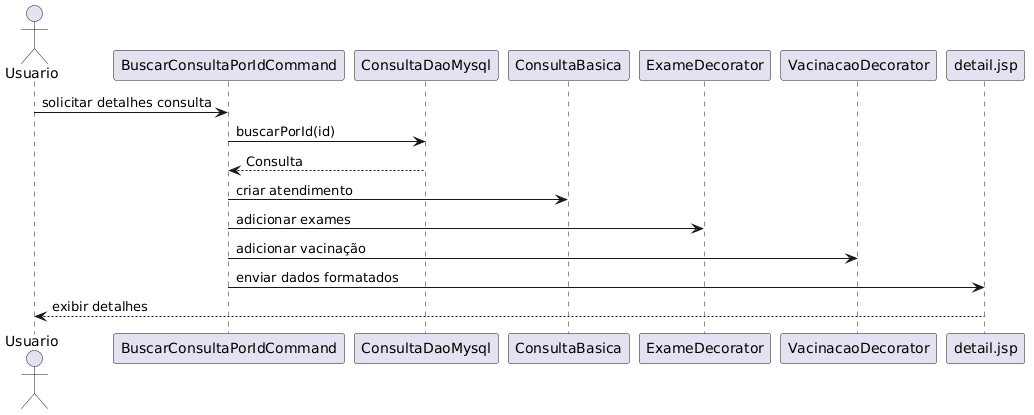
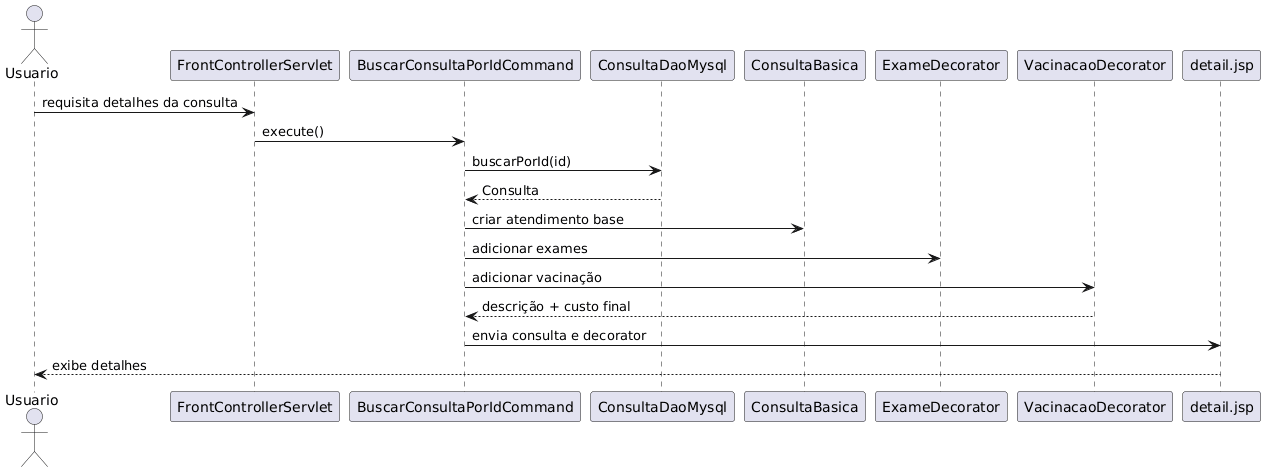
Melhora da API REST e atualização de docs e README

diff --git a/src/main/java/clinicavet/api/PetApiServlet.java b/src/main/java/clinicavet/api/PetApiServlet.java
@@ -10,6 +10,7 @@ import jakarta.servlet.ServletException;
 
 import java.io.IOException;
 import java.io.PrintWriter;
+import java.time.LocalDateTime;
 import java.util.List;
 
 @WebServlet("/api/pets")
@@ -31,9 +32,7 @@ public class PetApiServlet extends HttpServlet {
 
             String idParam = req.getParameter("id");
 
-            // =========================
             // BUSCAR PET POR ID
-            // =========================
             if (idParam != null) {
 
                 Long id = Long.parseLong(idParam);
@@ -44,93 +43,97 @@ public class PetApiServlet extends HttpServlet {
 
                     resp.setStatus(HttpServletResponse.SC_NOT_FOUND);
 
-                    out.print("{\"erro\":\"Pet nao encontrado\"}");
+                    out.print("""
+                        {
+                          "status":"error",
+                          "message":"Pet nao encontrado"
+                        }
+                    """);
 
                     return;
                 }
 
-                String json =
-                        "{"
-                        + "\"id\":" + pet.getId() + ","
-                        + "\"nome\":\"" + pet.getNome() + "\","
-                        + "\"especie\":\"" + pet.getEspecie() + "\","
-                        + "\"raca\":\"" + pet.getRaca() + "\","
-                        + "\"sexo\":\"" + pet.getSexo() + "\","
-                        + "\"porte\":\"" + pet.getPorte() + "\","
-                        + "\"statusVacinal\":\"" + pet.getStatusVacinal() + "\","
-                        + "\"castrado\":" + pet.isCastrado()
-                        + "}";
+                String json = """
+                    {
+                      "status":"success",
+                      "timestamp":"%s",
+                      "data":{
+                        "id":%d,
+                        "nome":"%s",
+                        "especie":"%s",
+                        "raca":"%s"
+                      }
+                    }
+                    """.formatted(
+                        LocalDateTime.now(),
+                        pet.getId(),
+                        pet.getNome(),
+                        pet.getEspecie(),
+                        pet.getRaca()
+                );
 
                 out.print(json);
+
             }
 
-            // =========================
             // LISTAR TODOS
-            // =========================
             else {
 
                 List<Pet> pets = petDao.listarTodos();
 
-                StringBuilder json = new StringBuilder();
+                StringBuilder petsJson = new StringBuilder();
 
-                json.append("[");
+                petsJson.append("[");
 
                 for (int i = 0; i < pets.size(); i++) {
 
                     Pet pet = pets.get(i);
 
-                    json.append("{");
-
-                    json.append("\"id\":")
-                            .append(pet.getId())
-                            .append(",");
-
-                    json.append("\"nome\":\"")
-                            .append(pet.getNome())
-                            .append("\",");
-
-                    json.append("\"especie\":\"")
-                            .append(pet.getEspecie())
-                            .append("\",");
-
-                    json.append("\"raca\":\"")
-                            .append(pet.getRaca())
-                            .append("\",");
-
-                    json.append("\"sexo\":\"")
-                            .append(pet.getSexo())
-                            .append("\",");
-
-                    json.append("\"porte\":\"")
-                            .append(pet.getPorte())
-                            .append("\",");
-
-                    json.append("\"statusVacinal\":\"")
-                            .append(pet.getStatusVacinal())
-                            .append("\"");
-
-                    json.append("}");
+                    petsJson.append("""
+                        {
+                          "id":%d,
+                          "nome":"%s",
+                          "especie":"%s"
+                        }
+                        """.formatted(
+                            pet.getId(),
+                            pet.getNome(),
+                            pet.getEspecie()
+                    ));
 
                     if (i < pets.size() - 1) {
-
-                        json.append(",");
+                        petsJson.append(",");
                     }
                 }
 
-                json.append("]");
+                petsJson.append("]");
 
-                out.print(json.toString());
+                String jsonFinal = """
+                    {
+                      "status":"success",
+                      "timestamp":"%s",
+                      "total":%d,
+                      "data":%s
+                    }
+                    """.formatted(
+                        LocalDateTime.now(),
+                        pets.size(),
+                        petsJson
+                );
+
+                out.print(jsonFinal);
             }
 
         } catch (Exception e) {
 
-            resp.setStatus(
-                    HttpServletResponse.SC_INTERNAL_SERVER_ERROR
-            );
+            resp.setStatus(HttpServletResponse.SC_INTERNAL_SERVER_ERROR);
 
-            out.print(
-                    "{\"erro\":\"Erro interno da API\"}"
-            );
+            out.print("""
+                {
+                  "status":"error",
+                  "message":"Erro interno da API"
+                }
+            """);
         }
     }
 }

diff --git a/README.md b/README.md
@@ -92,13 +92,29 @@ Endpoint disponível:
 /api/pets
 ```
 
-Permite:
-- listar pets
-- buscar pets por ID
-- retorno em JSON
+Funcionalidades:
+- listar pets cadastrados
+- buscar pet por ID
+- resposta em JSON
 - tratamento de erros HTTP
+- retorno com status e timestamp
 
----
+Exemplo de resposta:
+
+```json
+{
+  "status":"success",
+  "timestamp":"2026-05-28T23:30:00",
+  "total":2,
+  "data":[
+    {
+      "id":1,
+      "nome":"Thor",
+      "especie":"Cachorro"
+    }
+  ]
+}
+```
 
 # Padrões de projeto utilizados
 